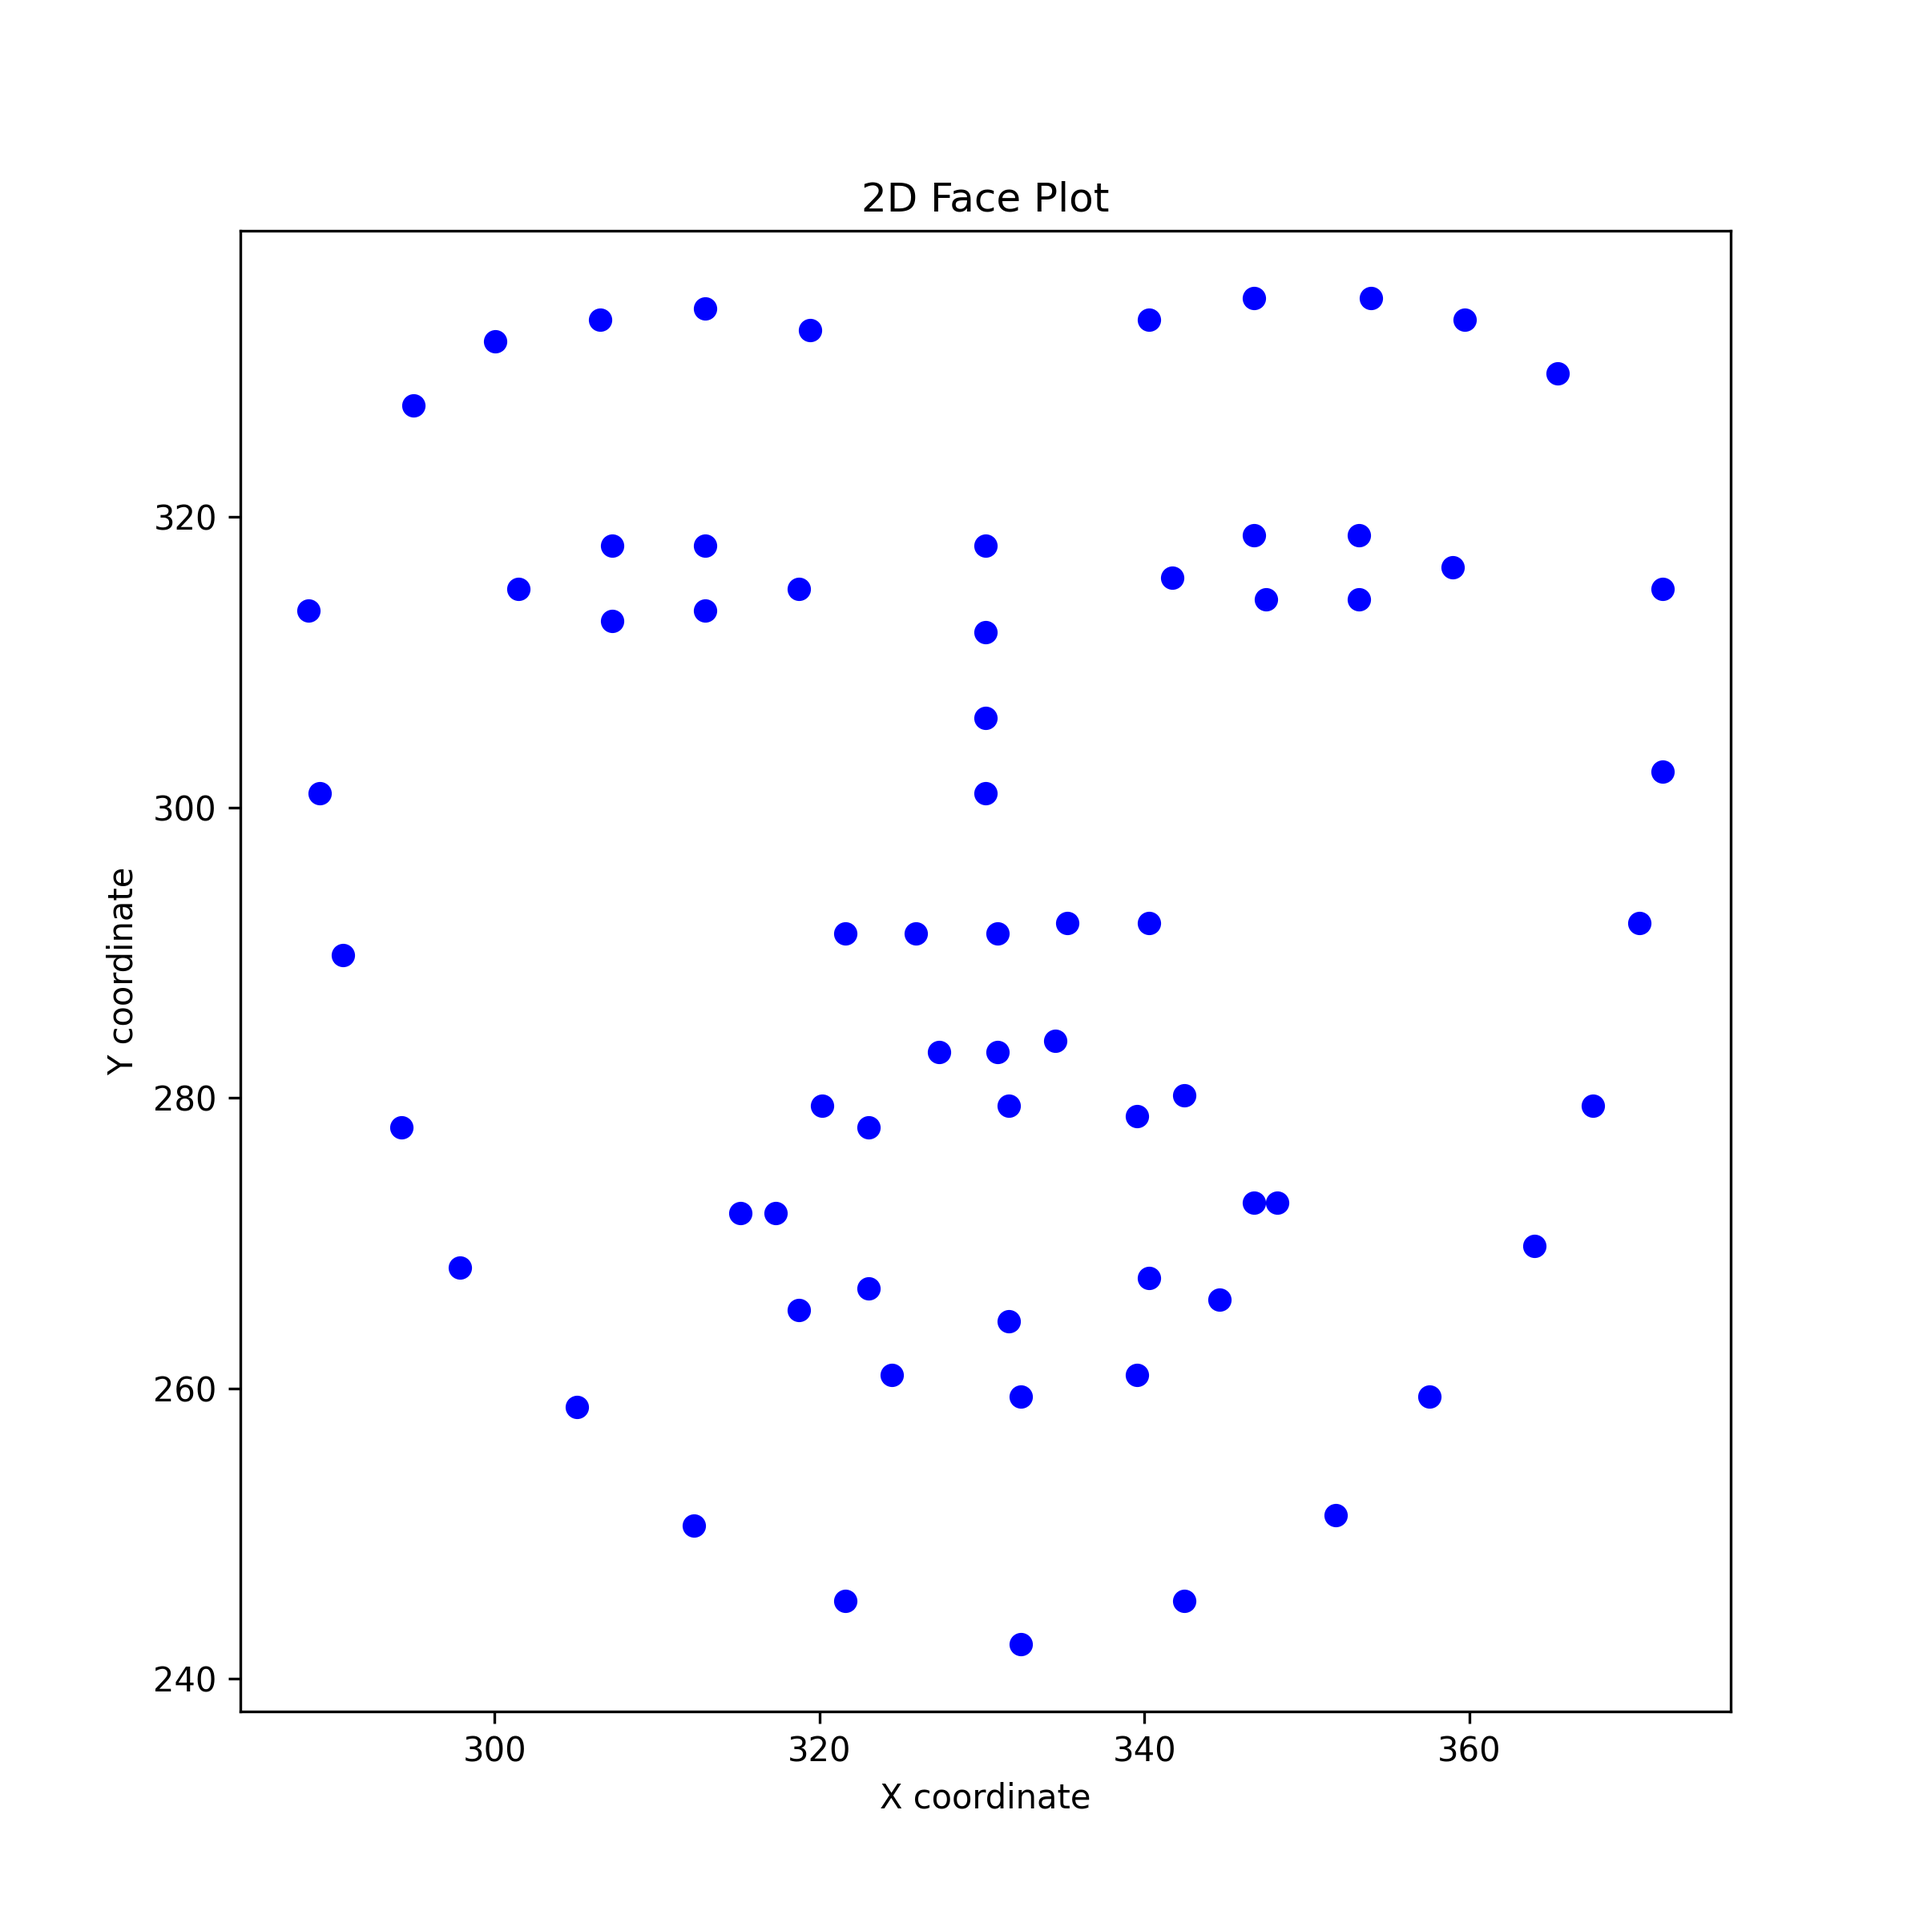
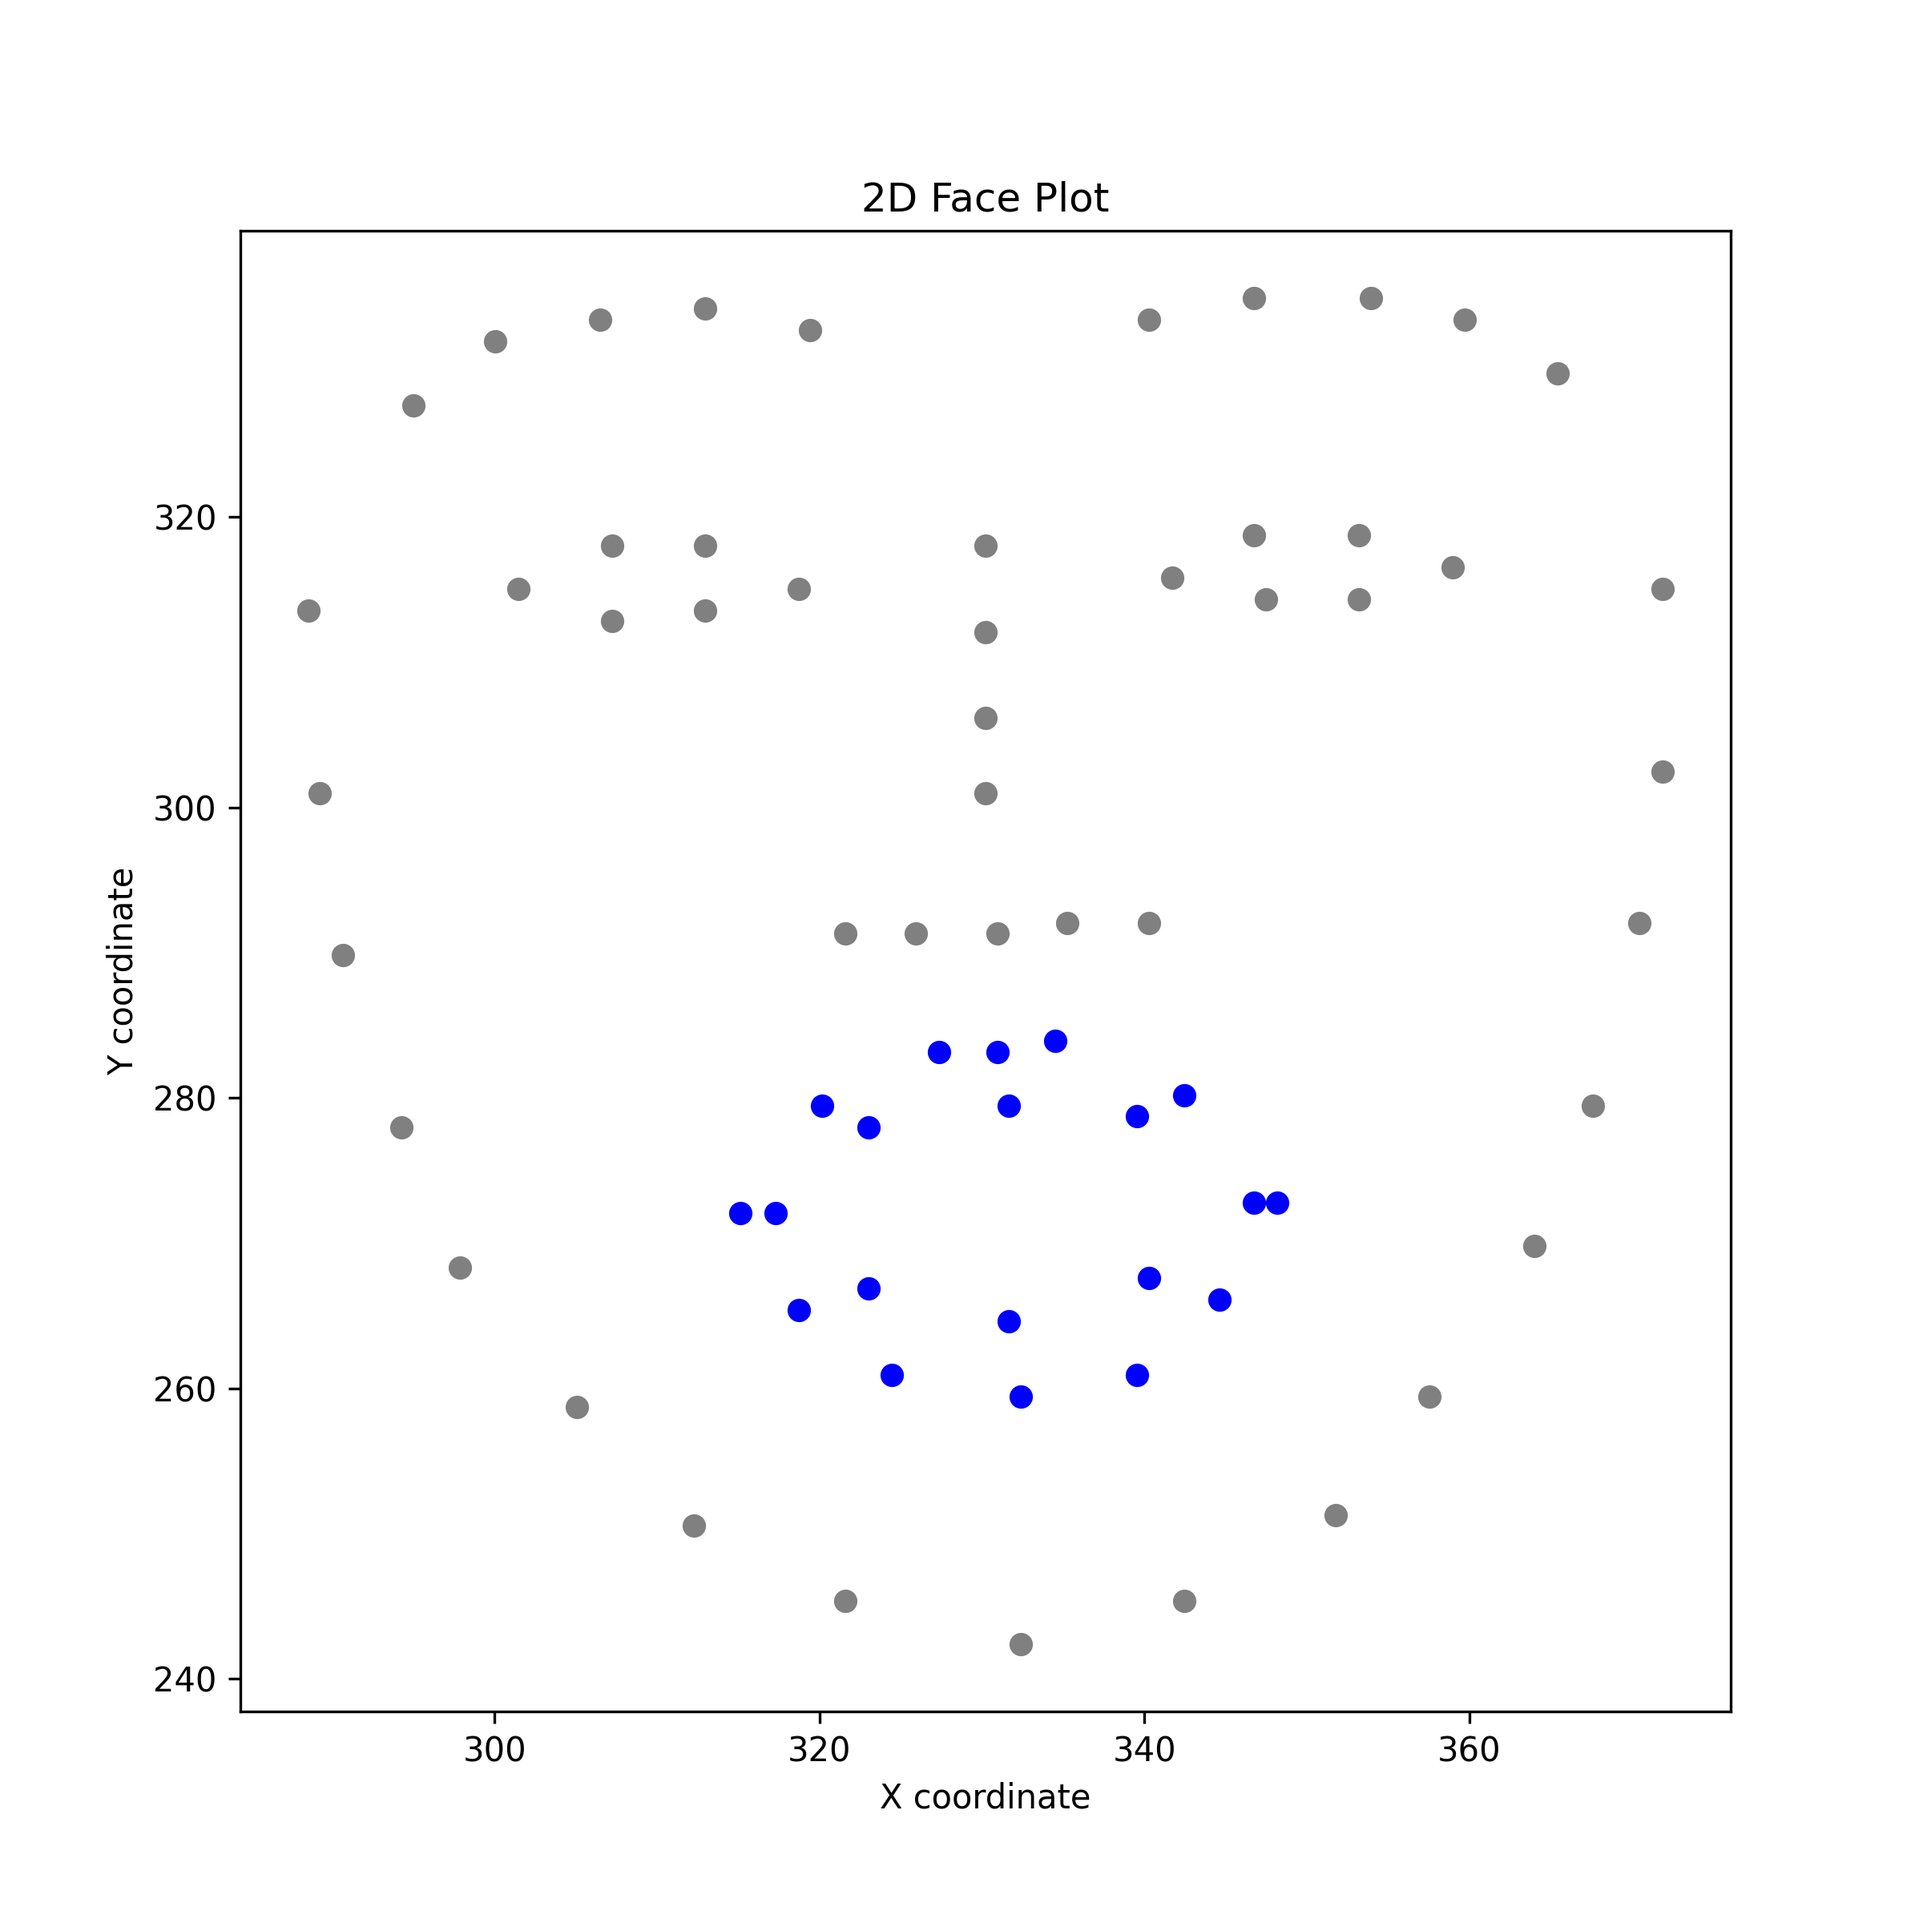
added dataclass with properties to standardize this proces

diff --git a/plot_face.py b/plot_face.py
@@ -2,28 +2,96 @@ import matplotlib.pyplot as plt
 import numpy as np
 from pathlib import Path
 import cv2
+from dataclasses import dataclass
 
 from utils import *
 from dwpose import DWposeDetector
 
-# mouth_x_min = 0.3
-# mouth_x_max = 0.7
-# mouth_y_min = 0.5
-# mouth_y_max = 0.7
+# constants
+MOUTH_START_INDEX = 48
+MOUTH_END_INDEX = 69
+H = 480
+W = 640
 
-# # Filter points that lie within the mouth region
-# mouth_points = []
-# for point in points_2d:
-#     x, y = point
-#     if mouth_x_min <= x <= mouth_x_max and mouth_y_min <= y <= mouth_y_max:
-#         mouth_points.append(point)
 
-# mouth_points = [mouth_points]
+@dataclass
+class FacialLandmarks:
+  x_coords: list[int]
+  y_coords: list[int]
+
+  LIP_TOP_COORDS: list[int] = (61, 62, 63)
+  LIP_BOTTOM_COORDS: list[int] = (65, 66, 67)
+
+  @property
+  def face_x(self) -> list[int]:
+    return self.x_coords[:MOUTH_START_INDEX]
+
+  @property
+  def face_y(self) -> list[int]:
+    return self.y_coords[:MOUTH_START_INDEX]
+
+  @property
+  def mouth_x(self) -> list[int]:
+    return self.x_coords[MOUTH_START_INDEX:MOUTH_END_INDEX]
+
+  @property
+  def mouth_y(self) -> list[int]:
+    return self.y_coords[MOUTH_START_INDEX:MOUTH_END_INDEX]
+
+  @property
+  def lip_top_x(self) -> list[int]:
+    return [self.x_coords[num] for num in self.LIP_TOP_COORDS]
+
+  @property
+  def lip_top_y(self) -> list[int]:
+    return [self.y_coords[num] for num in self.LIP_TOP_COORDS]
+
+  @property
+  def lip_bottom_x(self) -> list[int]:
+    return [self.x_coords[num] for num in self.LIP_BOTTOM_COORDS]
+
+  @property
+  def lip_bottom_y(self) -> list[int]:
+    return [self.y_coords[num] for num in self.LIP_BOTTOM_COORDS]
+
+
+def get_landmarks(img_path) -> FacialLandmarks:
+  input_image = cv2.imread(img_path)
+  H, W, C = input_image.shape
+
+  input_image = HWC3(input_image)
+  input_image = resize_image(input_image, resolution=512)
+  face_data = dwprocessor(input_image)
+  mouth_data = face_data[0]
+  
+  # handling reflecting the imae
+  x_coords = [i*W for i in mouth_data[:, 0]]
+  y_coords = [(1-j)*H for j in mouth_data[:, 1]]
+
+  return FacialLandmarks(x_coords=x_coords, y_coords=y_coords)
+
+  # mouth_x = x_coords[MOUTH_START_INDEX : MOUTH_END_INDEX]
+  # mouth_y = y_coords[MOUTH_START_INDEX : MOUTH_END_INDEX]
+
+  # face_x = x_coords[: MOUTH_START_INDEX]
+  # face_y = y_coords[: MOUTH_START_INDEX]
+
+  # # lip_top_coords = [49, 50, 51, 52, 53, 54, 55]
+  # # lip_bottom_coords = [56, 57, 58, 59, 60]
+
+  # lip_top_coords = [61, 62, 63]
+  # lip_bottom_coords = [65, 66, 67]
+
+  # lip_top_x = [x_coords[num] for num in lip_top_coords]
+  # lip_top_y = [y_coords[num] for num in lip_top_coords]
+
+  # lip_bottom_x = [x_coords[num] for num in lip_bottom_coords]
+  # lip_bottom_y = [y_coords[num] for num in lip_bottom_coords]
+
+  # return x_coords, y_coords, face_x, face_y, mouth_x, mouth_y, lip_top_x, lip_top_y, lip_bottom_x, lip_bottom_y
+
 
 if __name__ == "__main__":
-  H = 480
-  W = 640
-
   det_config = './dwpose/yolox_config/yolox_l_8xb8-300e_coco.py'
   det_ckpt = './ckpts/yolox_l_8x8_300e_coco_20211126_140236-d3bd2b23.pth'
   pose_config = './dwpose/dwpose_config/dwpose-l_384x288.py'
@@ -34,34 +102,16 @@ if __name__ == "__main__":
 
   for img_num in range(1, 9):
     img_path = Path(f"assets/test{img_num}.jpg")
-    output_path = Path(f"outputs/test{img_num}.jpg")
+    output_path = Path(f"outputs/test{img_num}_mouth.jpg")
 
-    input_image = cv2.imread(img_path)
-    H, W, C = input_image.shape
-
-    input_image = HWC3(input_image)
-    input_image = resize_image(input_image, resolution=512)
-    face_data = dwprocessor(input_image)
-    mouth_data = face_data[0]
-    
-    MOUTH_START_INDEX = 48
-    MOUTH_END_INDEX = 69
-
-    # handling reflecting the imae
-    x_coords = [i*W for i in mouth_data[:, 0]]
-    y_coords = [(1-j)*H for j in mouth_data[:, 1]]
-
-    mouth_x = x_coords[MOUTH_START_INDEX : MOUTH_END_INDEX]
-    mouth_y = y_coords[MOUTH_START_INDEX : MOUTH_END_INDEX]
-
-    face_x = x_coords[: MOUTH_START_INDEX]
-    face_y = y_coords[: MOUTH_START_INDEX]
-
-    print(f"image: test{img_num}, len(x_coords) = {len(x_coords)}, len(y_coords) = {len(y_coords)}")
+    landmarks = get_landmarks(img_path)
+    print(f"image: test{img_num}, len(x_coords) = {len(landmarks.x_coords)}, len(y_coords) = {len(landmarks.y_coords)}")
 
     plt.figure(figsize=(8, 8))
-    plt.scatter(face_x, face_y, c='gray', marker='o')
-    plt.scatter(mouth_x, mouth_y, c='blue', marker='o')
+    plt.scatter(landmarks.face_x, landmarks.face_y, c='gray', marker='o')
+    plt.scatter(landmarks.mouth_x, landmarks.mouth_y, c='blue', marker='o')
+    plt.scatter(landmarks.lip_top_x, landmarks.lip_top_y, c='red', marker='o')
+    plt.scatter(landmarks.lip_bottom_x, landmarks.lip_bottom_y, c='green', marker='o')
 
     plt.xlabel('X coordinate')
     plt.ylabel('Y coordinate')
